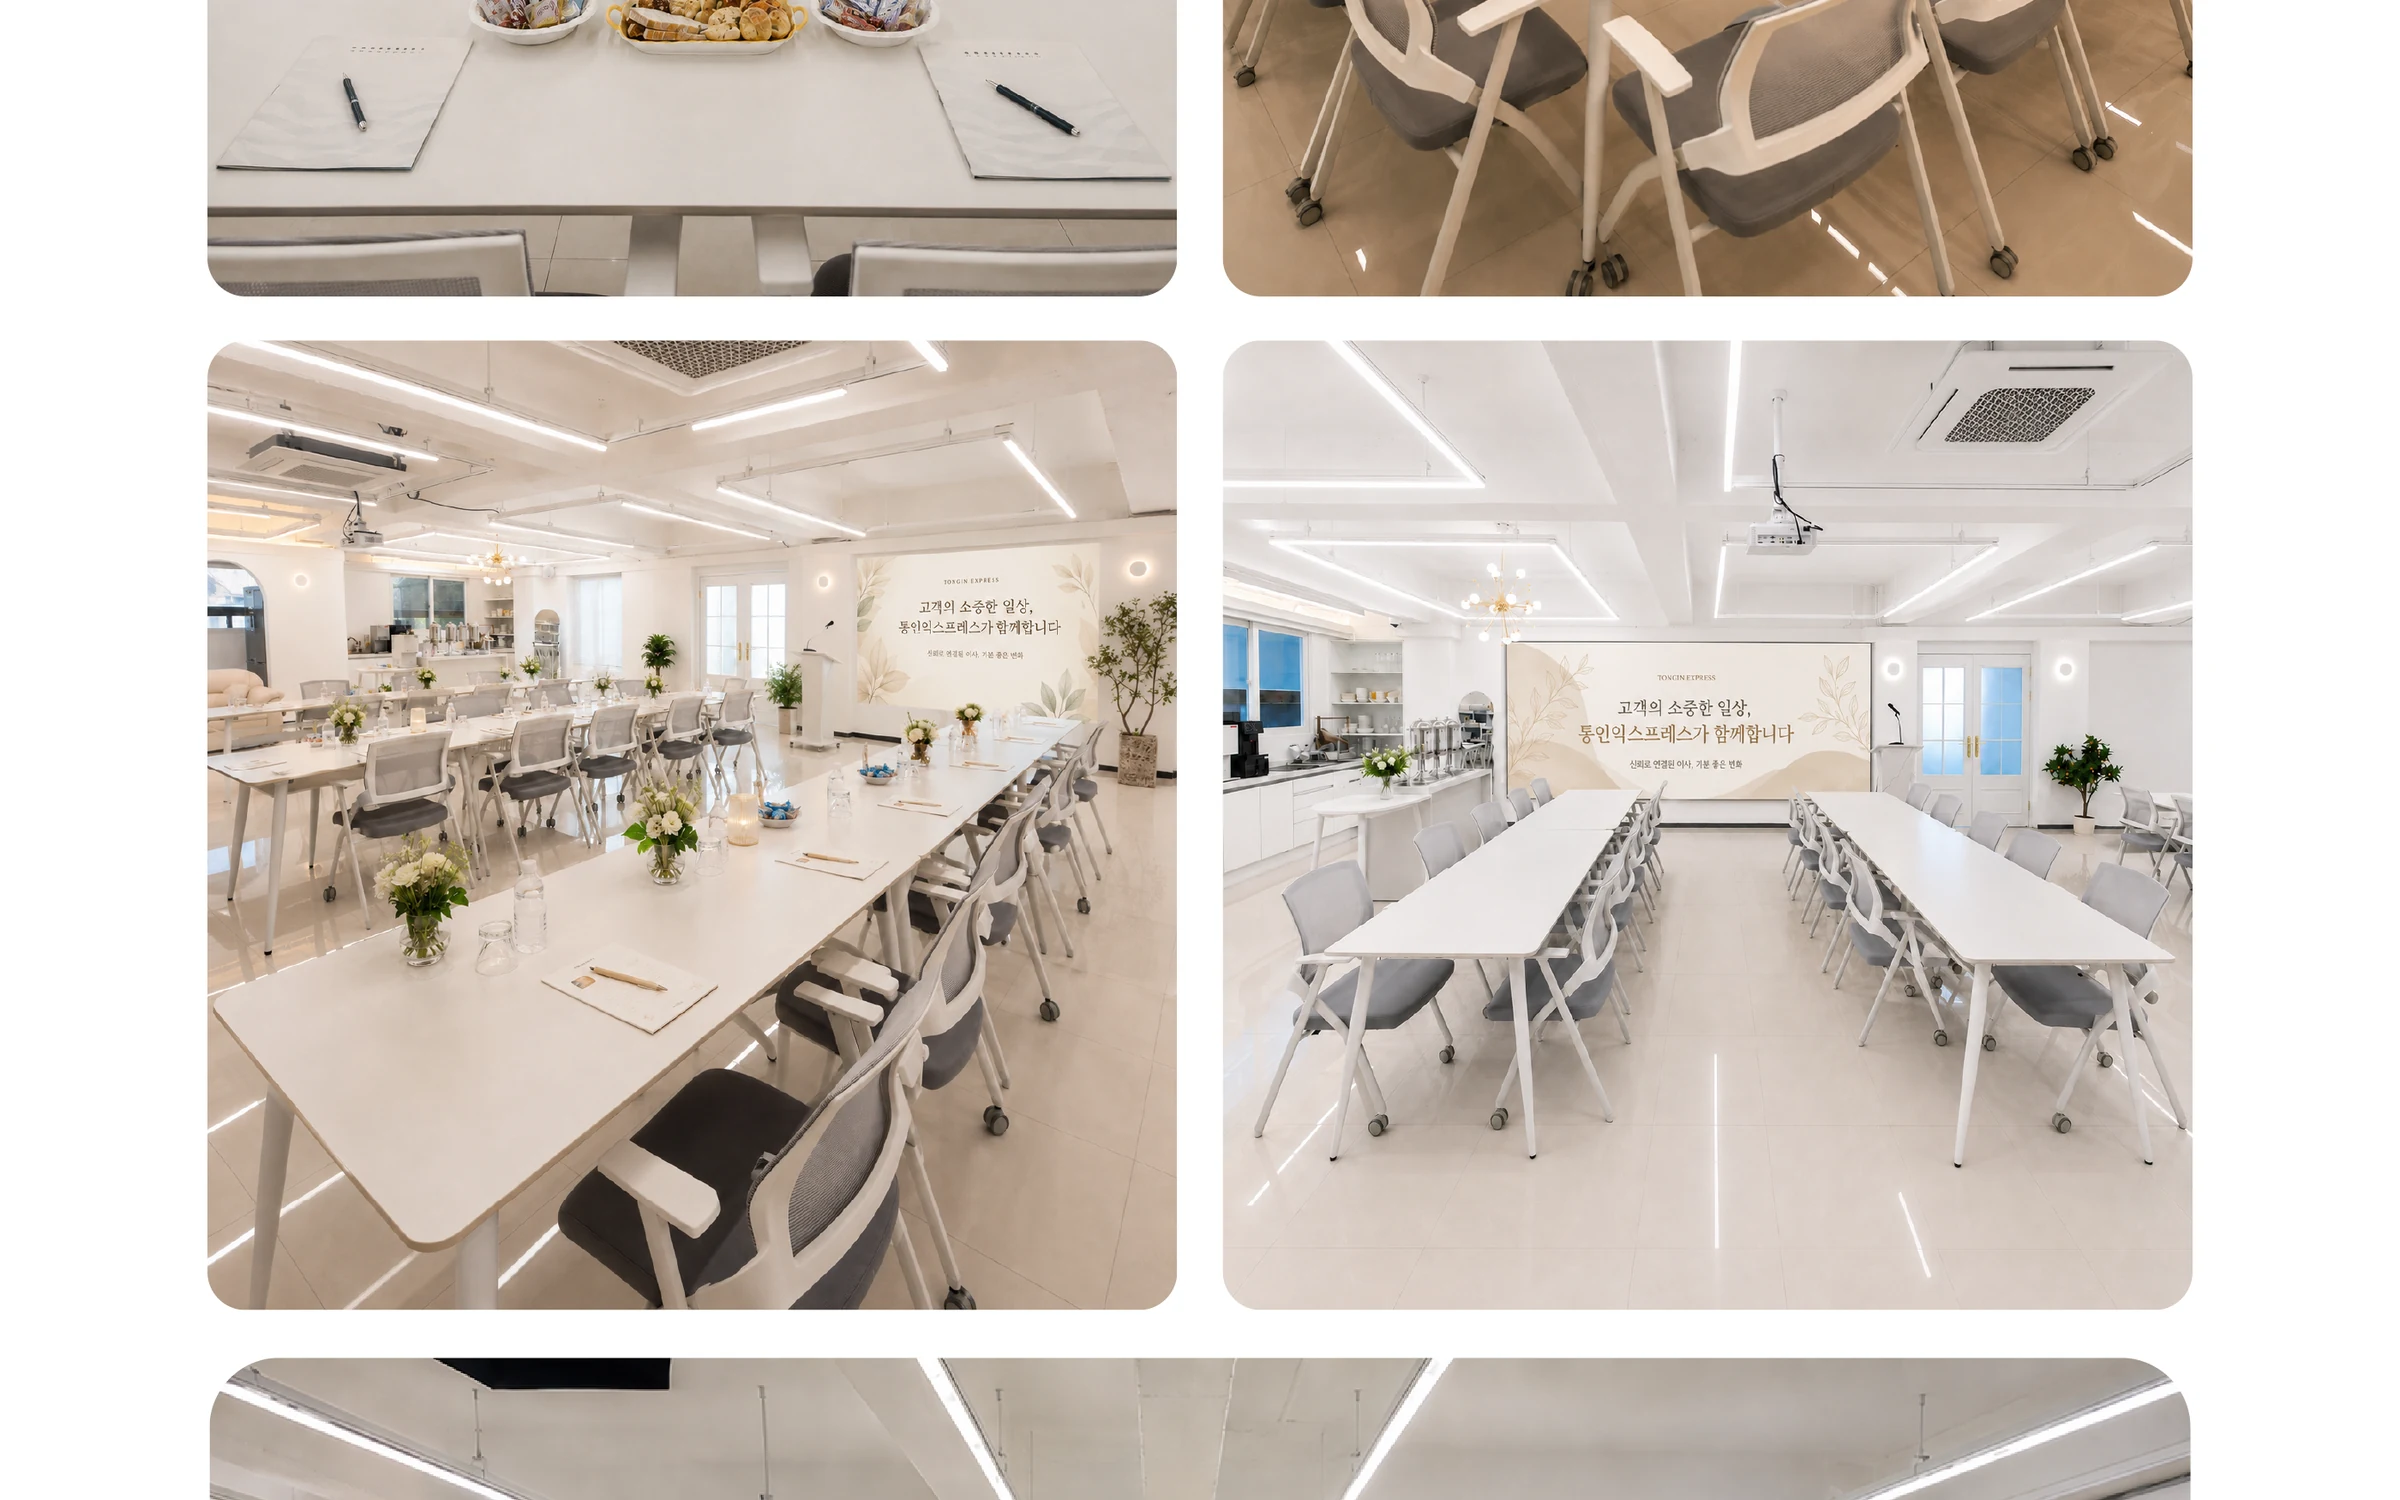
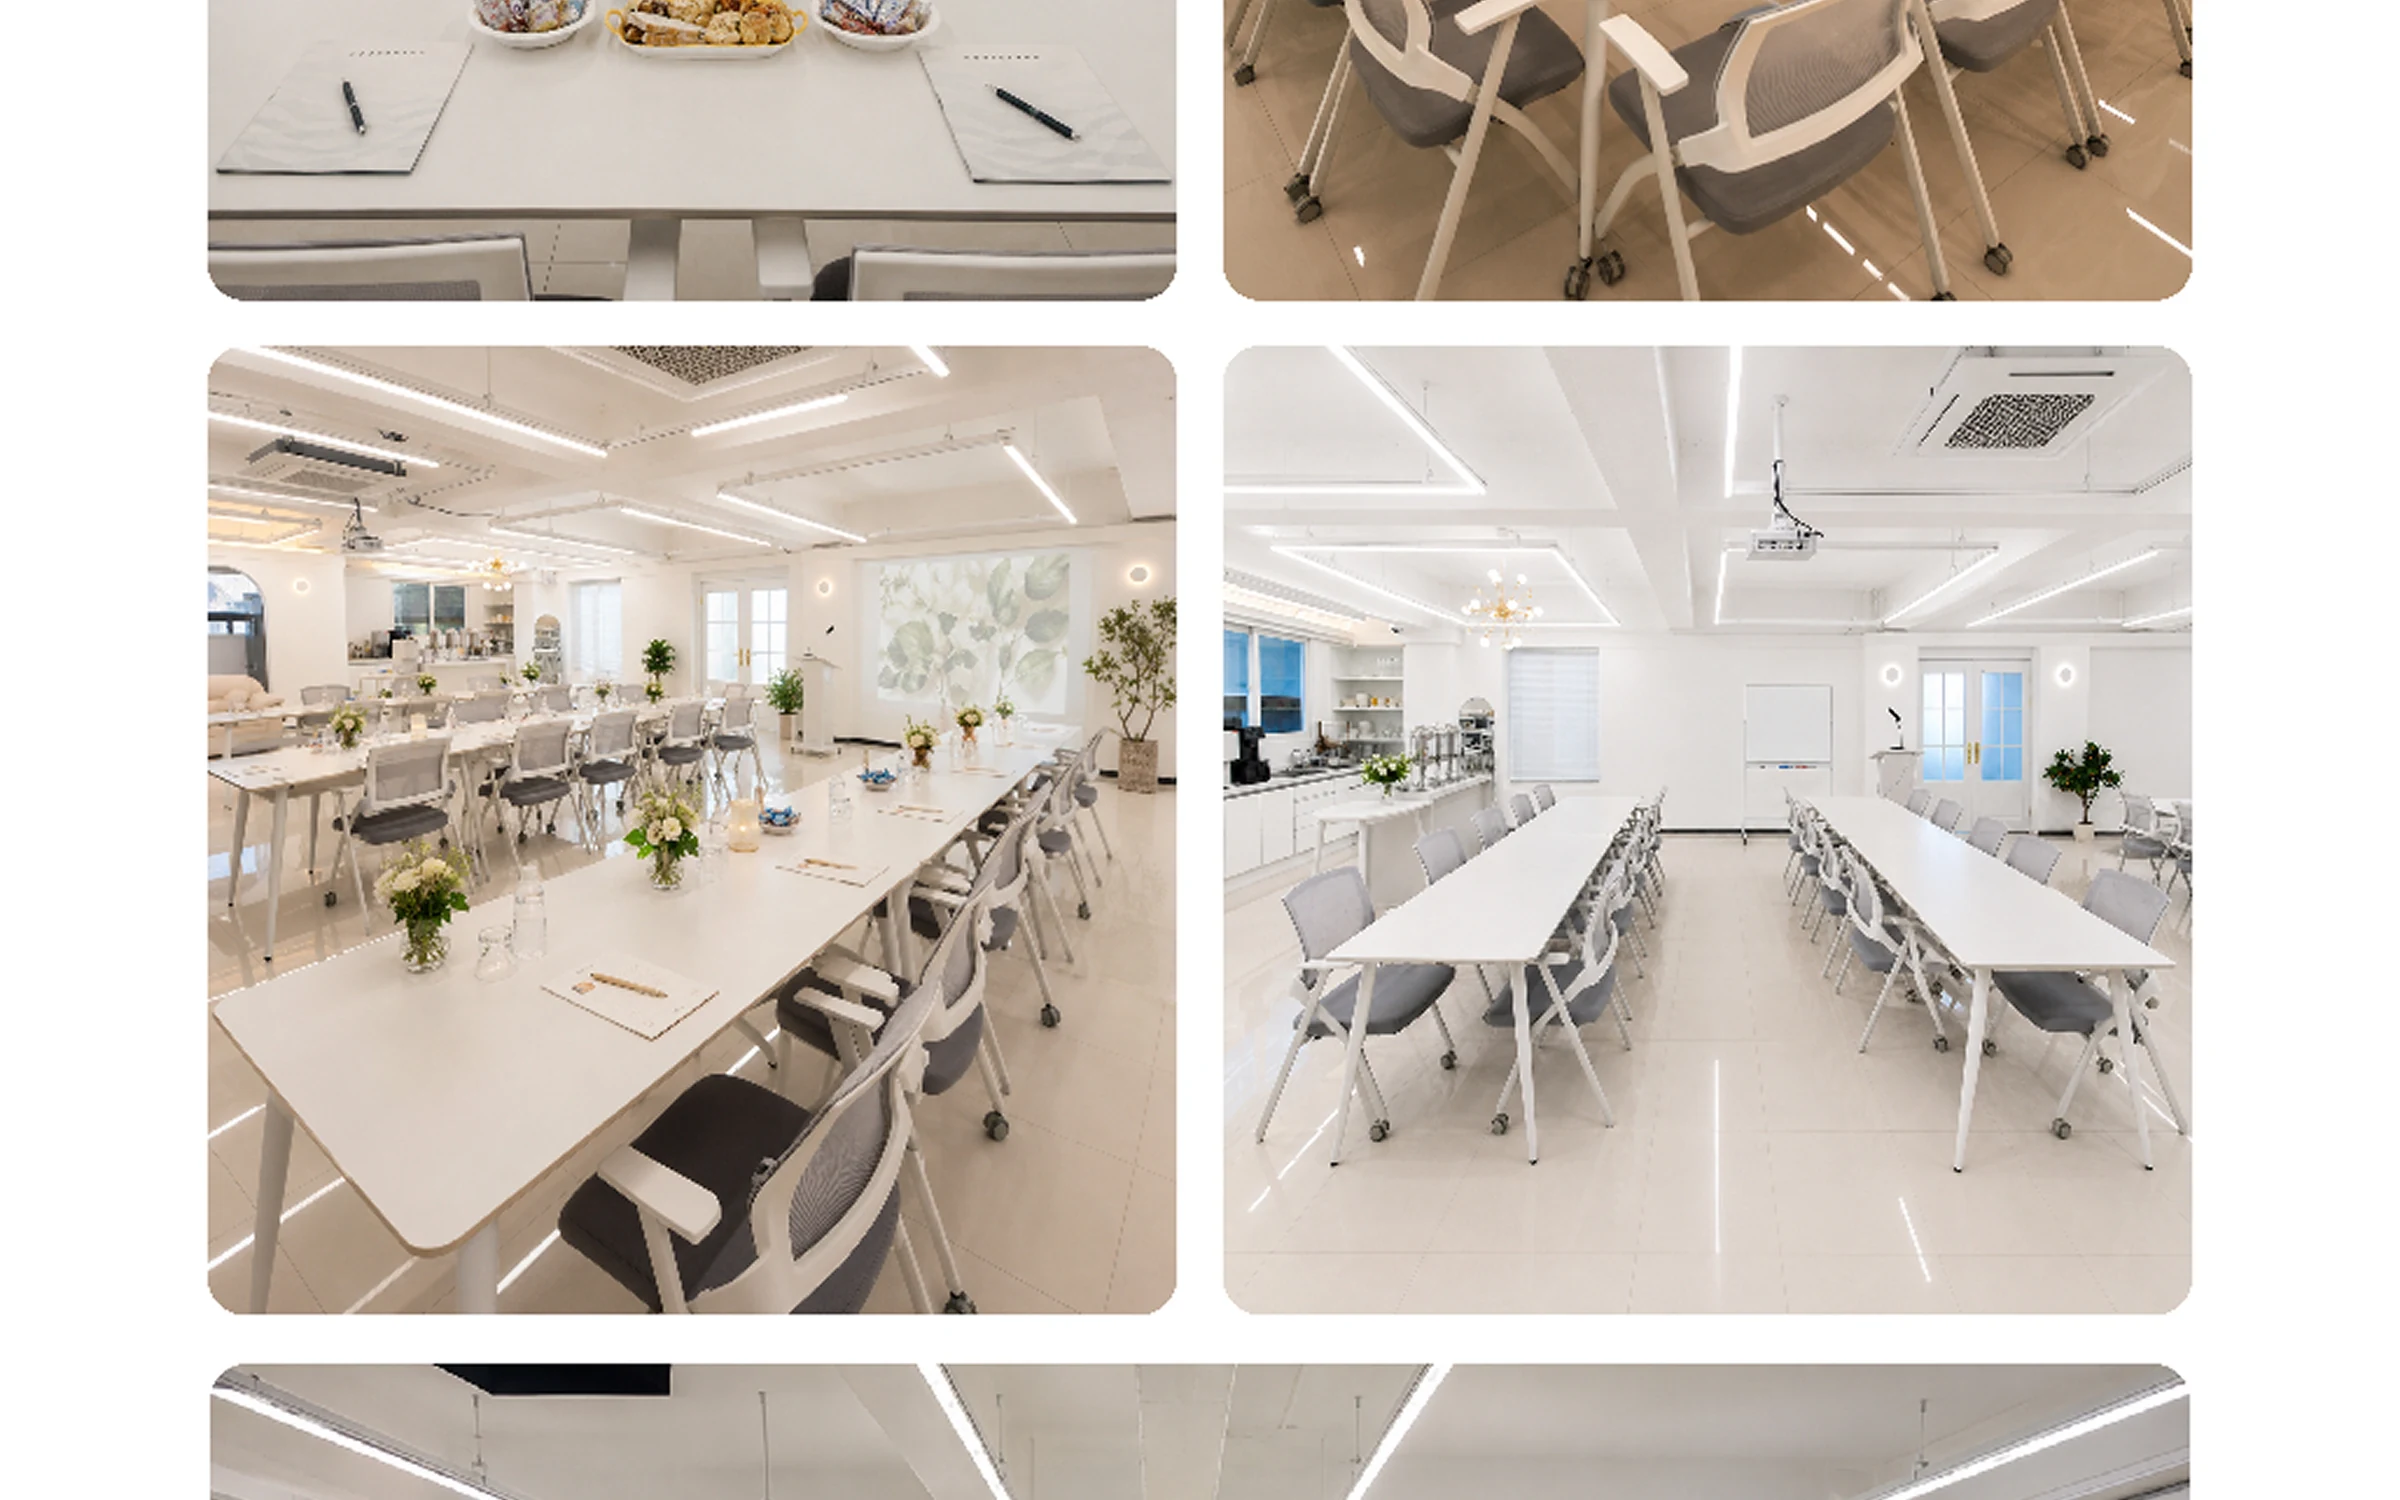
4F·6F 상세 페이지 이미지 교체 (0629 버전)
- 다운로드 폴더 원본(2880px) 기준 2400px WebP 7조각씩 재생성
- 4F slices 8 → 7 동기화

diff --git a/src/app/spaces/[floor]/page.tsx b/src/app/spaces/[floor]/page.tsx
@@ -7,7 +7,7 @@ import { SiteFooter } from "@/components/site-footer";
 // 세로 1500px씩 잘라둔다 (public/images/floor-{key}-01.webp ~). 조각 수는 층마다 다름.
 const FLOORS = {
   "2f": { floor: "2F", name: "시그니처 스위트", slices: 7 },
-  "4f": { floor: "4F", name: "시그니처 컨벤션", slices: 8 },
+  "4f": { floor: "4F", name: "시그니처 컨벤션", slices: 7 },
   "6f": { floor: "6F", name: "시그니처 루프탑", slices: 7 },
 } as const;
 
